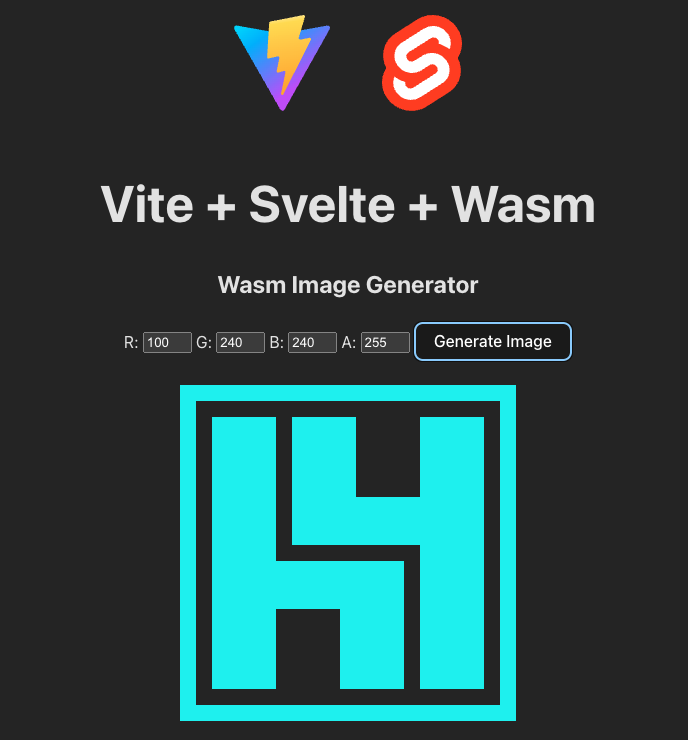
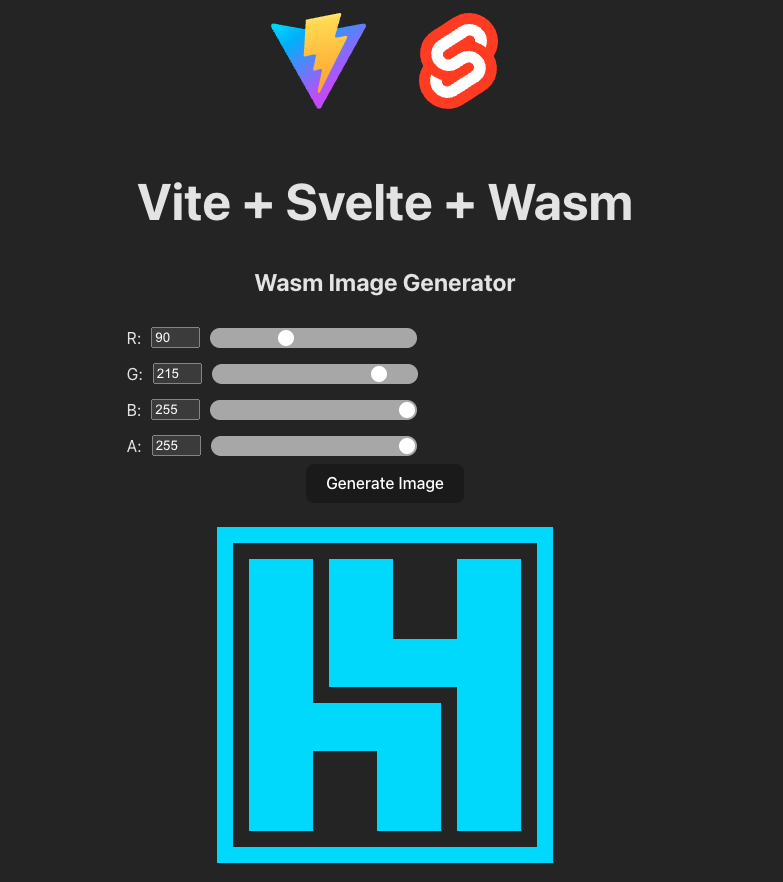
update

diff --git a/wasm-frontend/src/lib/Wasm.svelte b/wasm-frontend/src/lib/Wasm.svelte
@@ -1,6 +1,7 @@
 <script lang="ts">
   import * as wasm from "gen-hyimage-wasm";
   import { onMount } from "svelte";
+  import { Slider } from "svelte-awesome-slider";
 
   // Bind input values to variables
   let red = 240;
@@ -39,22 +40,112 @@
     // Set image
     document.getElementById("generated-image").src = url;
   };
+
+  onMount(async () => {
+    generate();
+  });
 </script>
 
 <h2>Wasm Image Generator</h2>
-<div>
-  <label for="red">R:</label>
-  <input type="number" bind:value={red} min="0" max="255" />
-  <label for="green">G:</label>
-  <input type="number" bind:value={green} min="0" max="255" />
-  <label for="blue">B:</label>
-  <input type="number" bind:value={blue} min="0" max="255" />
-  <label for="alpha">A:</label>
-  <input type="number" bind:value={alpha} min="0" max="255" />
 
+<div class="color-control">
+  <label for="red">R:</label>
+  <input type="number" bind:value={red} min="0" max="255" on:input={generate} />
+  <Slider
+    min={0}
+    max={255}
+    bind:value={red}
+    step={5}
+    name="red"
+    --track-background="rgba(255,255,255,0.6)"
+    --thumb-background="#FFF"
+    --track-width="40%"
+    --track-height="20px"
+    on:input={generate}
+  />
+</div>
+
+<div class="color-control">
+  <label for="green">G:</label>
+  <input
+    type="number"
+    bind:value={green}
+    min="0"
+    max="255"
+    on:input={generate}
+  />
+  <Slider
+    min={0}
+    max={255}
+    bind:value={green}
+    step={5}
+    name="red"
+    --track-background="rgba(255,255,255,0.6)"
+    --thumb-background="#FFF"
+    --track-width="40%"
+    --track-height="20px"
+    on:input={generate}
+  />
+</div>
+
+<div class="color-control">
+  <label for="blue">B:</label>
+  <input
+    type="number"
+    bind:value={blue}
+    min="0"
+    max="255"
+    on:input={generate}
+  />
+  <Slider
+    min={0}
+    max={255}
+    bind:value={blue}
+    step={5}
+    name="red"
+    --track-background="rgba(255,255,255,0.6)"
+    --thumb-background="#FFF"
+    --track-width="40%"
+    --track-height="20px"
+    on:input={generate}
+  />
+</div>
+
+<div class="color-control">
+  <label for="alpha">A:</label>
+  <input
+    type="number"
+    bind:value={alpha}
+    min="0"
+    max="255"
+    on:input={generate}
+  />
+  <Slider
+    min={0}
+    max={255}
+    bind:value={alpha}
+    step={5}
+    name="red"
+    --track-background="rgba(255,255,255,0.6)"
+    --thumb-background="#FFF"
+    --track-width="40%"
+    --track-height="20px"
+    on:input={generate}
+  />
+</div>
+
+<div>
   <button on:click={generate}> Generate Image </button>
 
   <br />
   <br />
   <img id="generated-image" alt="Generated Image" />
 </div>
+
+<style>
+  .color-control {
+    display: flex;
+    align-items: center;
+    gap: 10px; /* Space between elements */
+  }
+</style>
